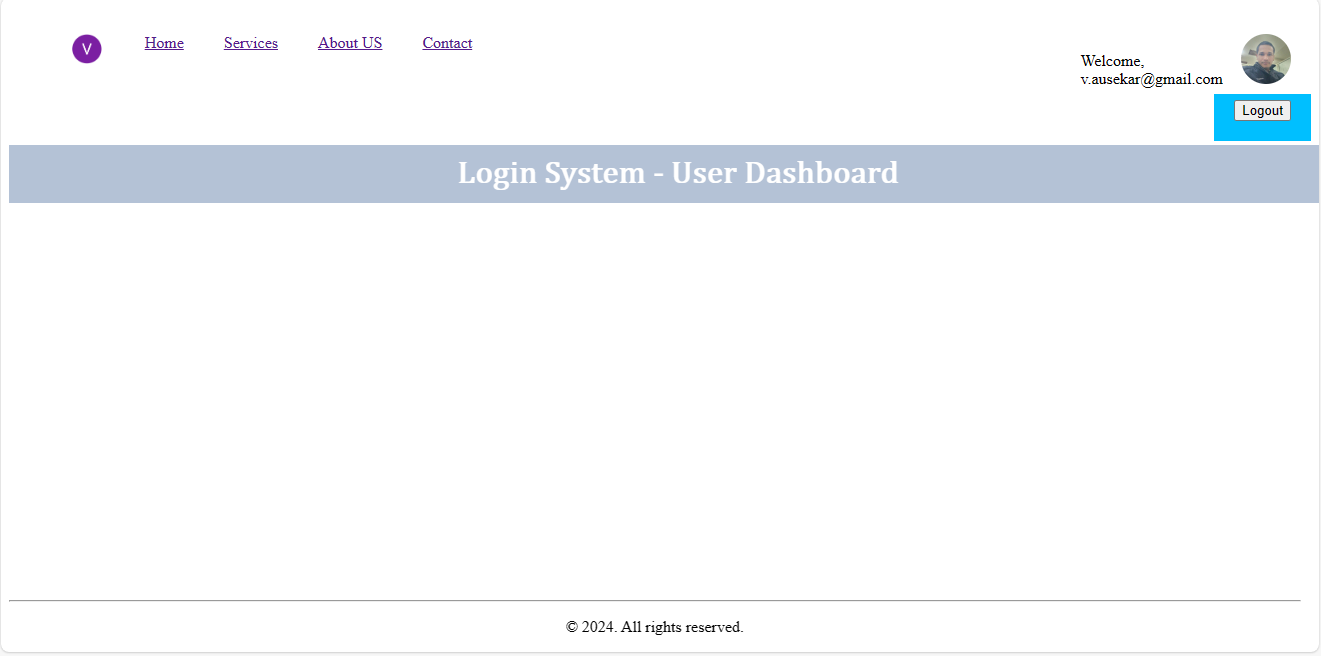
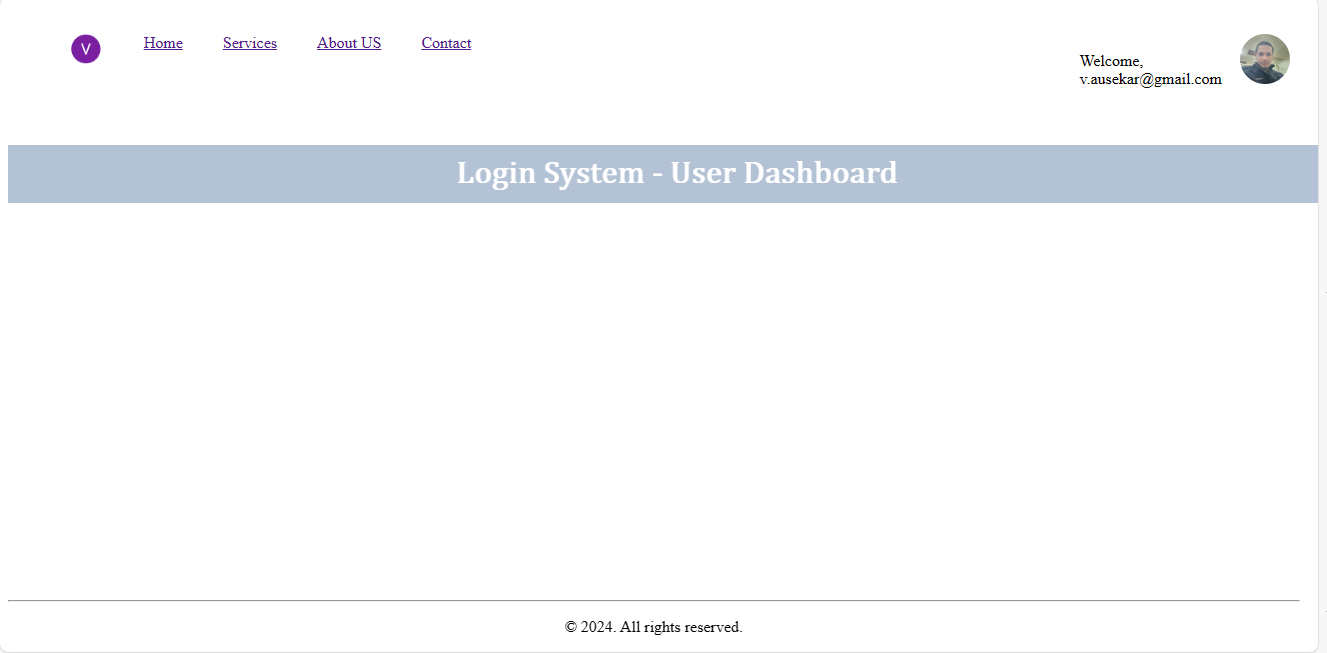
Redirect & Links to forgot & change Password

diff --git a/assets/css/custom.css b/assets/css/custom.css
@@ -42,6 +42,7 @@ h1 {
     font-family: math;
     position: relative;
     width: 100%;
+    z-index: -1;
 }
 h2 {
     background:#7867;

diff --git a/app-common-config/header.php b/app-common-config/header.php
@@ -3,7 +3,7 @@
     <head>
         <title>Login System</title>
         <link href="assets/css/custom.css" rel="stylesheet">
-        <?php if('/loginSystemVanillaPHP/dashboard.php'==$_SERVER['REQUEST_URI']) {?>
+        <?php if(isset($_SESSION['user_id'])) {?>
             <style>
                 .form-container {
                     margin: auto;
@@ -23,7 +23,7 @@
                 .user-account-menu {
                     list-style: none;
                     float: right;
-                    background: deepskyblue;
+                    background: lightskyblue;
                     margin-top: -30px;
                     padding: 5px;
                     display: none;
@@ -62,10 +62,22 @@
                                 <br/>
                                 <label for="uname">Welcome, <?php if(isset($_SESSION['uname'])) echo htmlspecialchars($_SESSION['uname']);?></label>
                             </li>
+                            <?php } else { ?>
+                                <li style="margin-left: auto;"><a href="<?php echo $base_url;?>">Login</a></li>
                             <?php }?>
                         </ul>
                         <ul class="user-account-menu">
                             <?php if(isset($_SESSION['user_id'])) {?>
+                                <li>
+                                    <a href="dashboard.php">
+                                        Dashboard
+                                    </a>
+                                </li>
+                                <li>
+                                    <a href="change-password.php">
+                                        Change Password
+                                    </a>
+                                </li>
                                 <li>
                                     <form id="user-nav" id="" action="<?php echo './dashboard.php';?>" method="POST" >
                                         <?php csrfToken($salt); ?>

diff --git a/forgot-password.php b/forgot-password.php
@@ -1,0 +1,37 @@
+<?php
+    //Load config
+    require_once('app-common-config/variables.php');
+    require_once('app-common-config/dbconnection.php');
+    require_once('app-common-config/functions.php');
+
+    //Session init
+    @session_start();
+
+    //Validate Authentication
+    if(isset($_SESSION['user_id'])) {                   //With Session
+        //Redirect to change password
+        header('location: change-password.php'); die;
+    } else if(isset($_COOKIE['user'])) {                //With cookie
+        //Is user exists
+        $isExists=false;
+        $pwd=sha1($_POST['password']);
+        $stmt= $con->prepare("SELECT * FROM users WHERE user_id=?");
+        $stmt->bind_param("i", $_COOKIE['user']);
+        if($stmt->execute()) {
+            $result = $stmt->get_result();
+            while ($row = $result->fetch_assoc()) {
+                // echo '<pre>'; print_r($row); die;
+                $isExists=true;
+                $_SESSION['user_id']=$row['user_id'];
+                $_SESSION['uname']=$row['uname'];
+                $_SESSION['uimg']=$row['img'];
+            }
+        }
+        //Redirect to change password
+        header('location: change-password.php'); die;
+    }
+
+    //Display view
+    require_once('app-common-config/header.php');
+    require_once('content/forgot-password.php');
+    require_once('app-common-config/footer.php');

diff --git a/change-password.php b/change-password.php
@@ -1,0 +1,35 @@
+<?php
+    //Load config
+    require_once('app-common-config/variables.php');
+    require_once('app-common-config/dbconnection.php');
+    require_once('app-common-config/functions.php');
+
+    //Session init
+    @session_start();
+
+    //Validate Authentication
+    if(!isset($_SESSION['user_id']) && !isset($_COOKIE['user'])) {          //No session & cookies
+        //Redirect to forgot password
+        header('location: forgot-password.php'); die;
+    } else if(!isset($_SESSION['user_id']) && isset($_COOKIE['user'])) {    //With Cookie
+        //Is user exists
+        $isExists=false;
+        $pwd=sha1($_POST['password']);
+        $stmt= $con->prepare("SELECT * FROM users WHERE user_id=?");
+        $stmt->bind_param("i", $_COOKIE['user']);
+        if($stmt->execute()) {
+            $result = $stmt->get_result();
+            while ($row = $result->fetch_assoc()) {
+                // echo '<pre>'; print_r($row); die;
+                $isExists=true;
+                $_SESSION['user_id']=$row['user_id'];
+                $_SESSION['uname']=$row['uname'];
+                $_SESSION['uimg']=$row['img'];
+            }
+        }
+    }
+
+    //Display view
+    require_once('app-common-config/header.php');
+    require_once('content/change-password.php');
+    require_once('app-common-config/footer.php');

diff --git a/index.php b/index.php
@@ -107,7 +107,7 @@
                     if(isset($_POST['remember_me'])) {
                         //Set cookies
                         $value=$_SESSION['user_id'];
-                        $expire=time() + (60); //86400=1 day
+                        $expire=time() + (86400); //86400=1 day
                         $path='/';
                         $secure=false;
                         $httponly=true;

diff --git a/content/change-password.php b/content/change-password.php
@@ -3,7 +3,6 @@
         unset($_SESSION['message']);
     } else { ?>
         <div class="section">
-            <h1>Login System - User Dashboard</h1>            
+            <h1>Login System - Change Password</h1>            
         </div>
     <?php } ?>
-    

diff --git a/content/forgot-password.php b/content/forgot-password.php
@@ -3,7 +3,6 @@
         unset($_SESSION['message']);
     } else { ?>
         <div class="section">
-            <h1>Login System - User Dashboard</h1>            
+            <h1>Login System - Forgot Password</h1>            
         </div>
     <?php } ?>
-    
